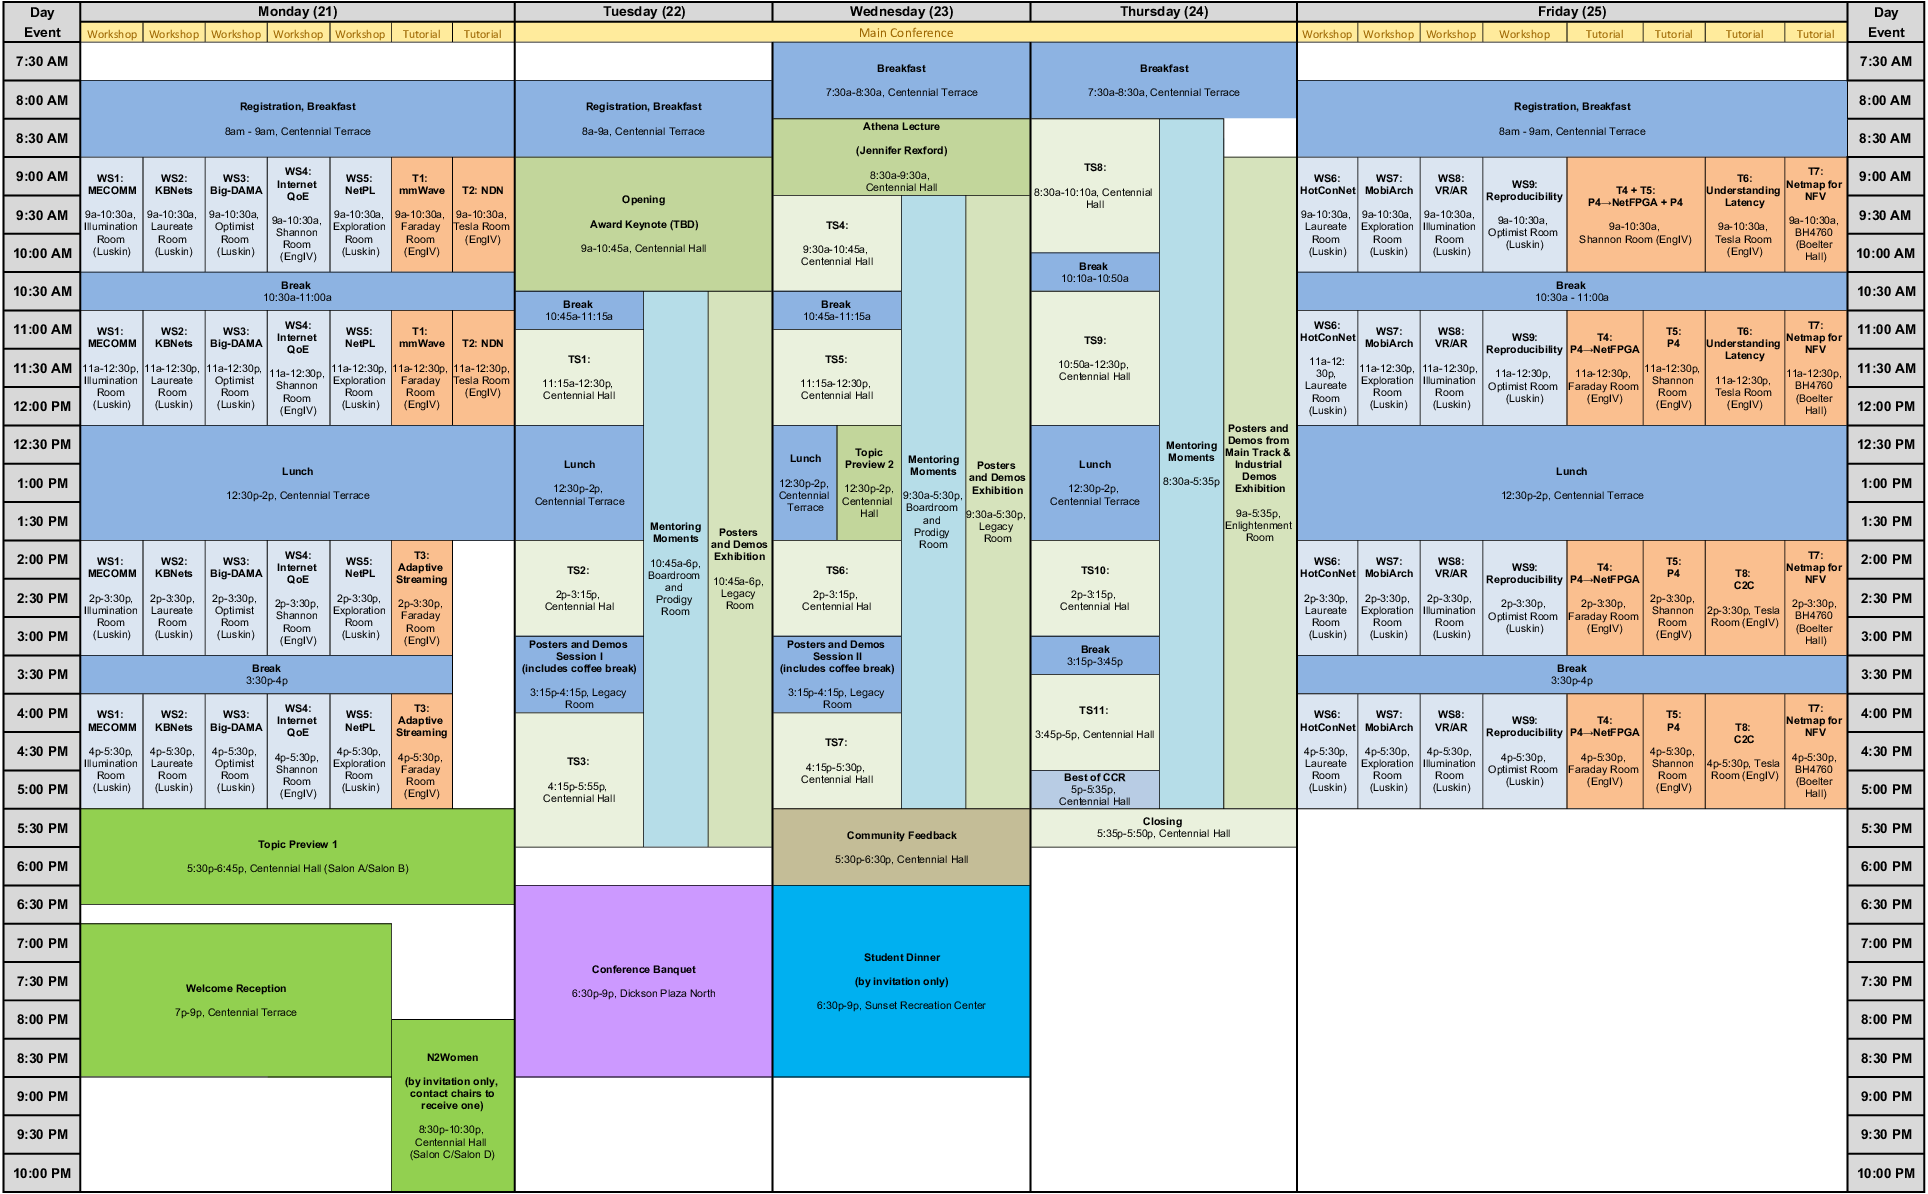
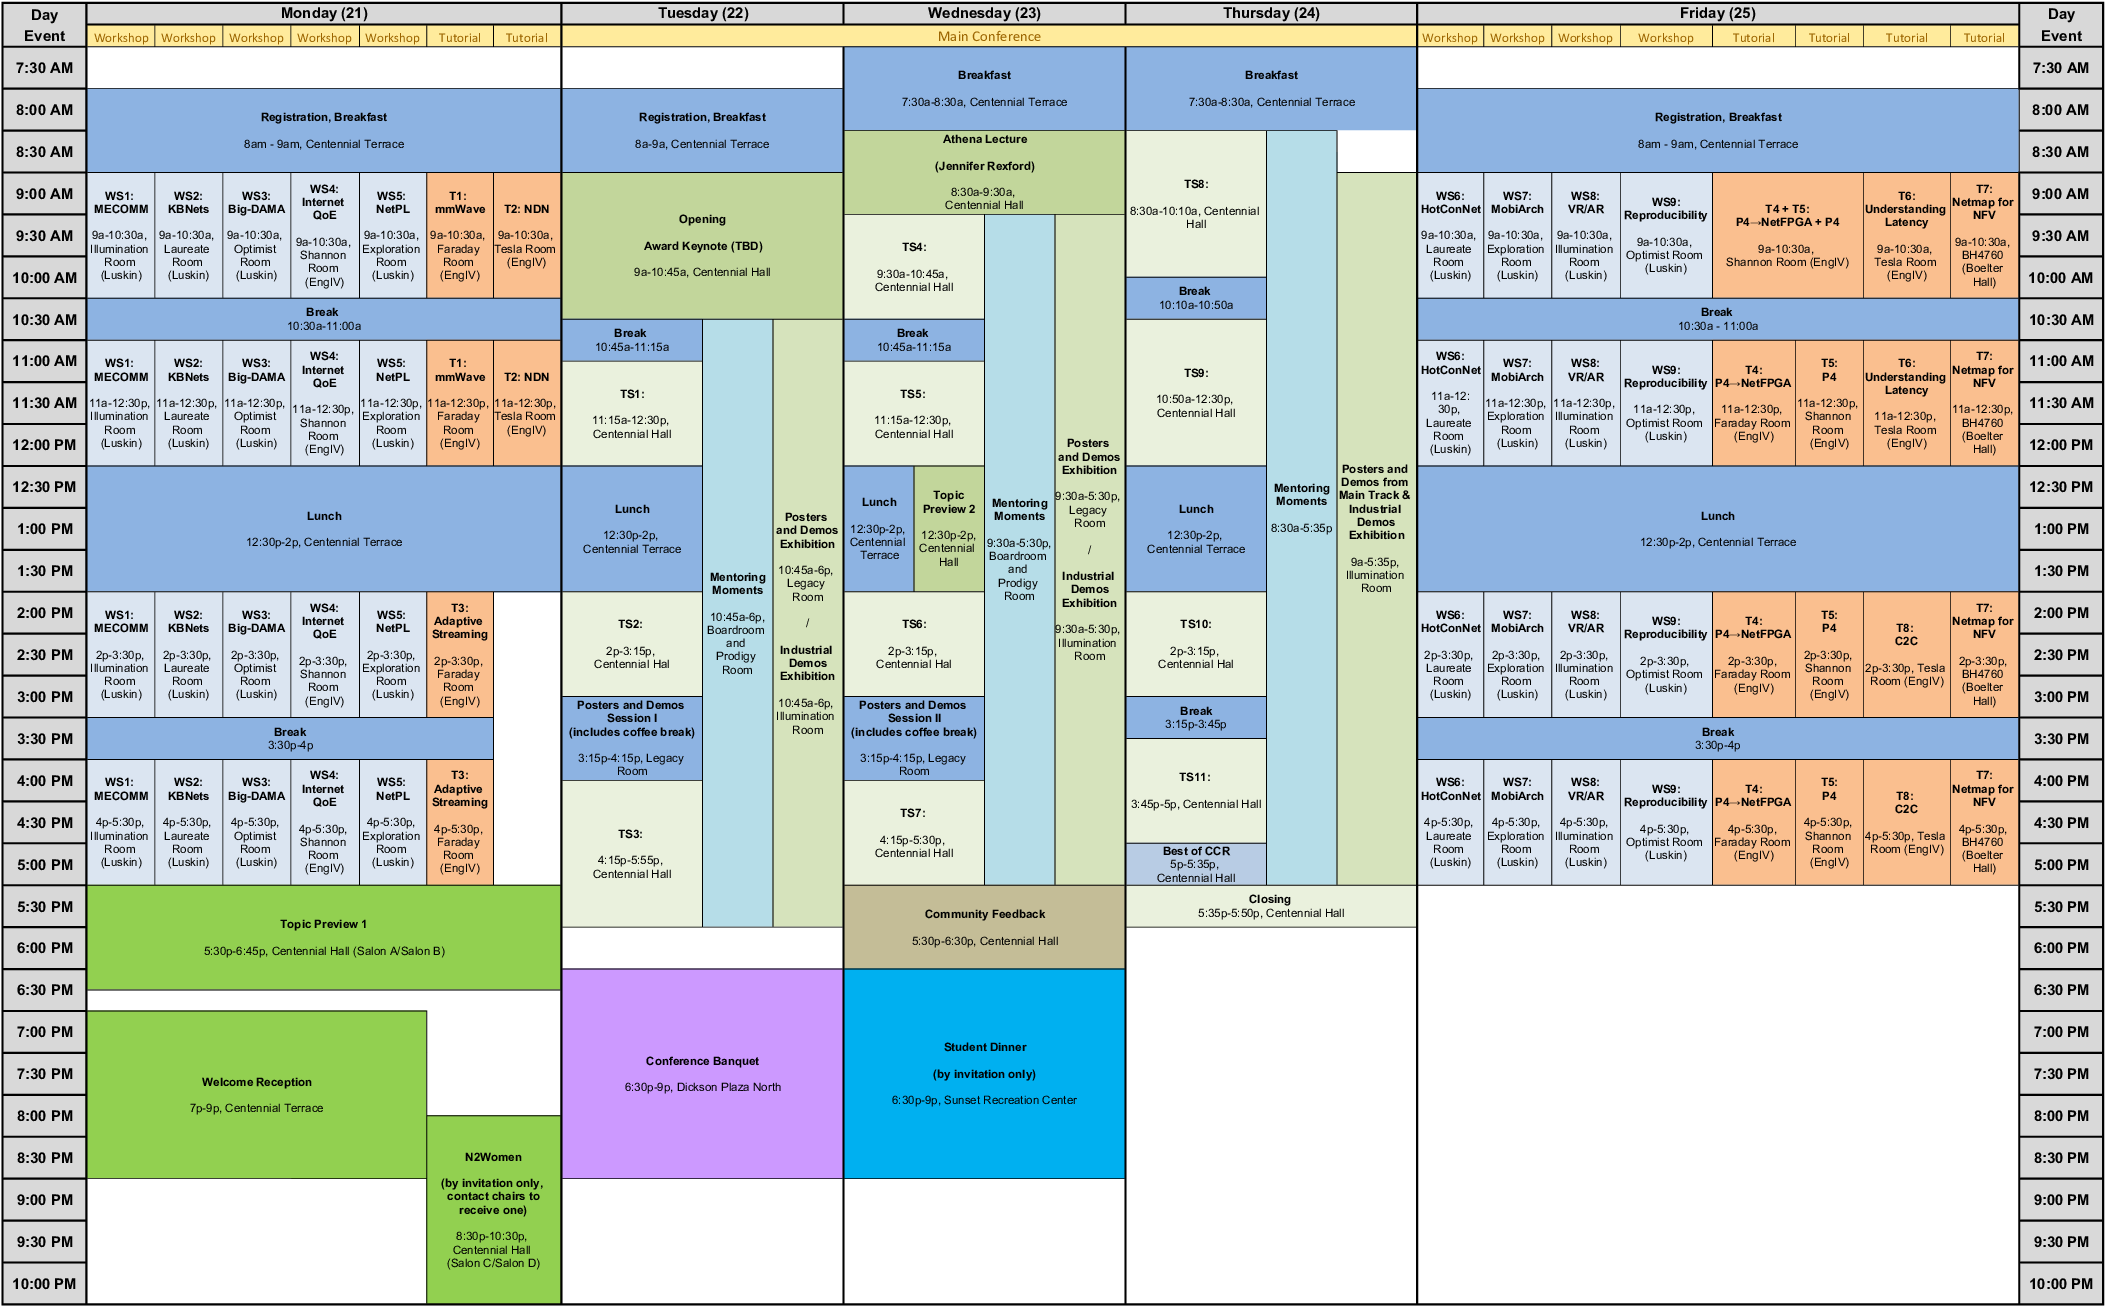
Update program (again...)

diff --git a/program-industrial-demos.html b/program-industrial-demos.html
@@ -6,7 +6,7 @@ group: Conference
 <h1>{{ page.title }}</h1>
 
 The Industrial demos and Sponsor Exhibits will be in the Illumination Room on 2nd Floor.
-They will be open for viewing on Tuesday (10:45am - 6:00pm), Wednesday (9:30am - 6:00pm), and  Thursday (9:00am - 6:00pm).
+They will be open for viewing on Tuesday (10:45am - 6:00pm), Wednesday (9:30am - 5:30pm), and Thursday (9:00am - 5:35pm).
 We expect most visitors to the industrial demo room during the scheduled coffee breaks and demo sessions on Tuesday and Wednesday afternoon.
 
 {% include program-online.html type="industrial-demos" %}
